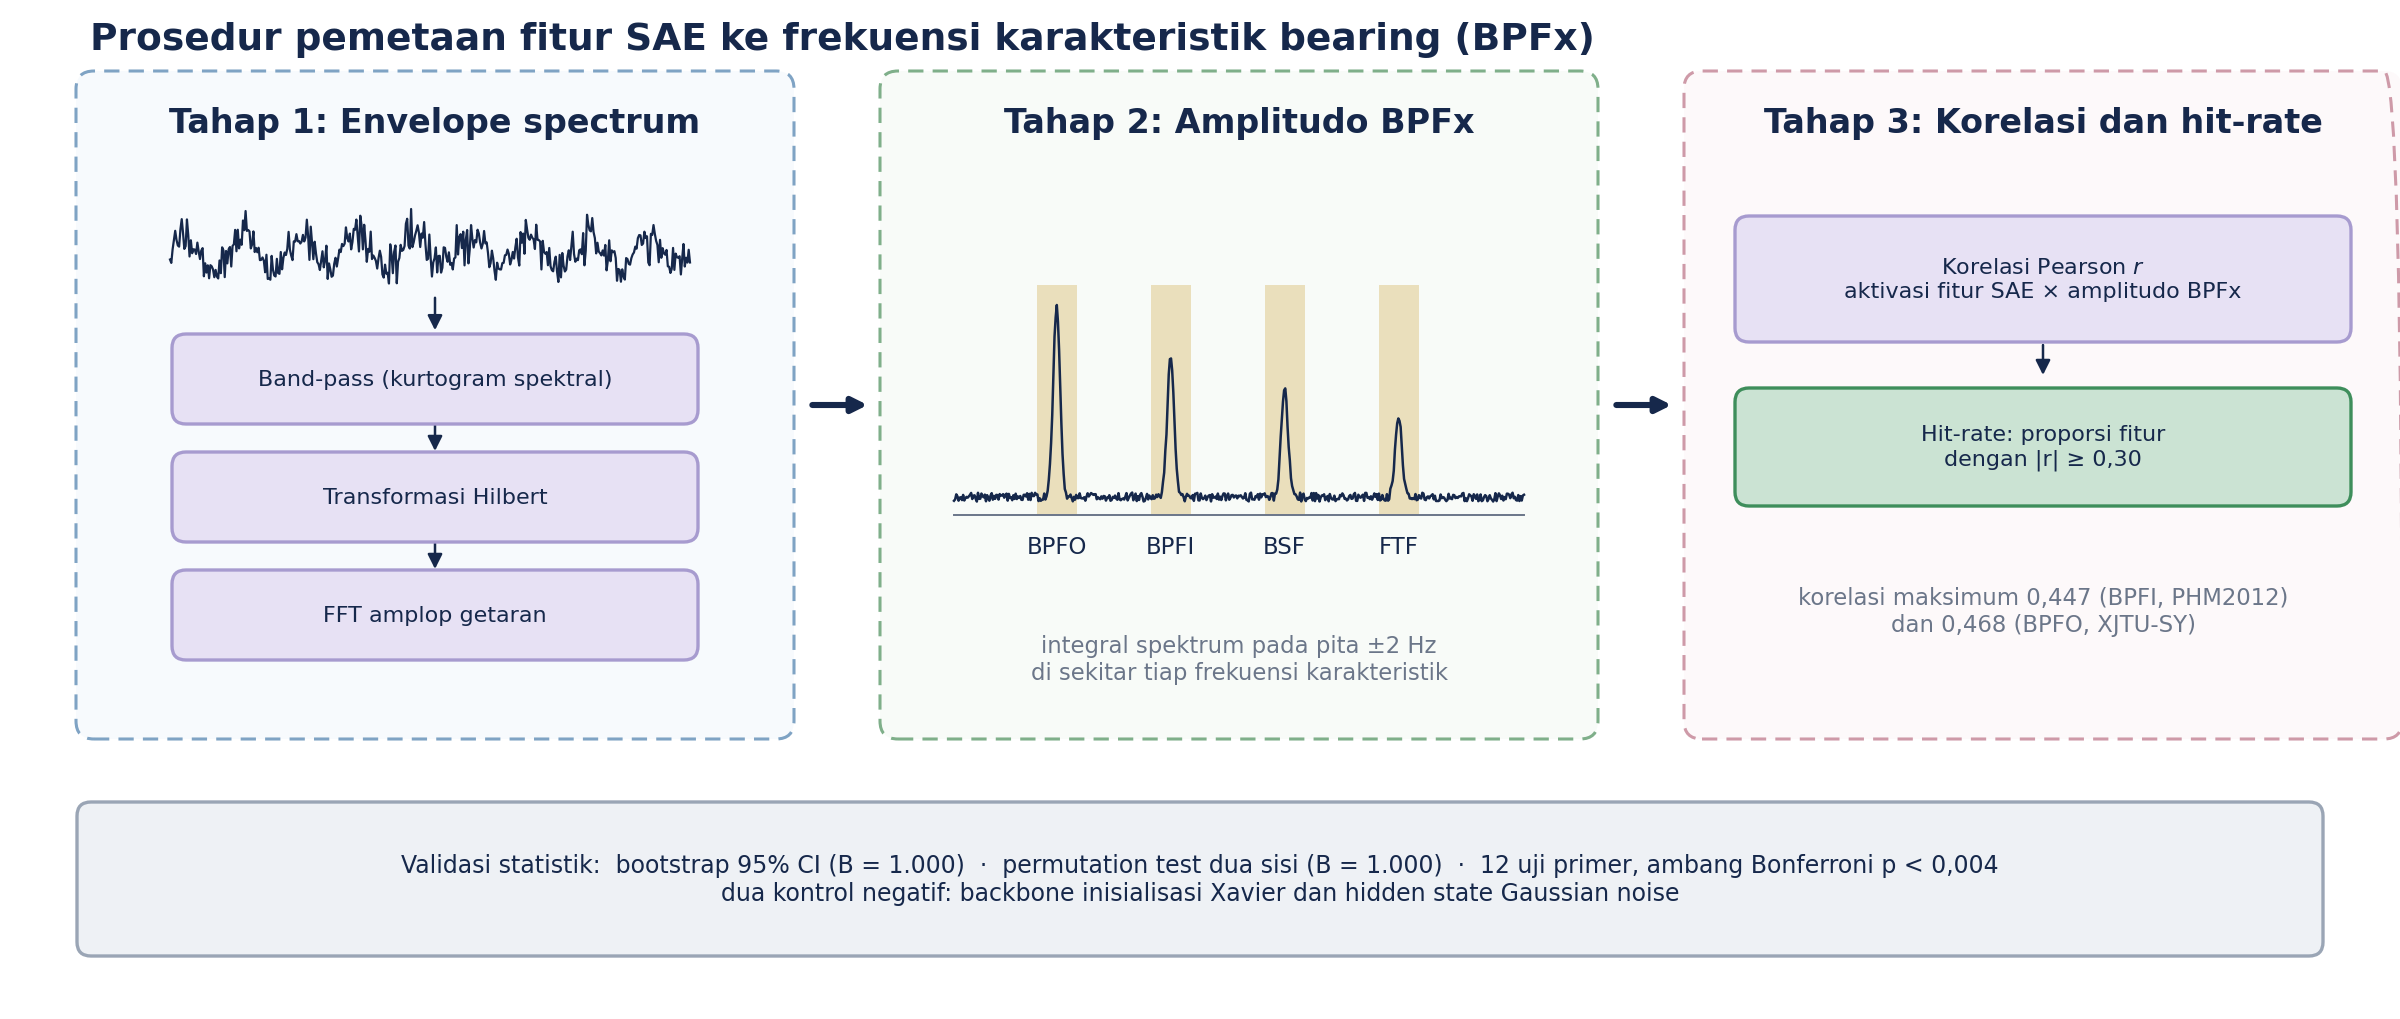
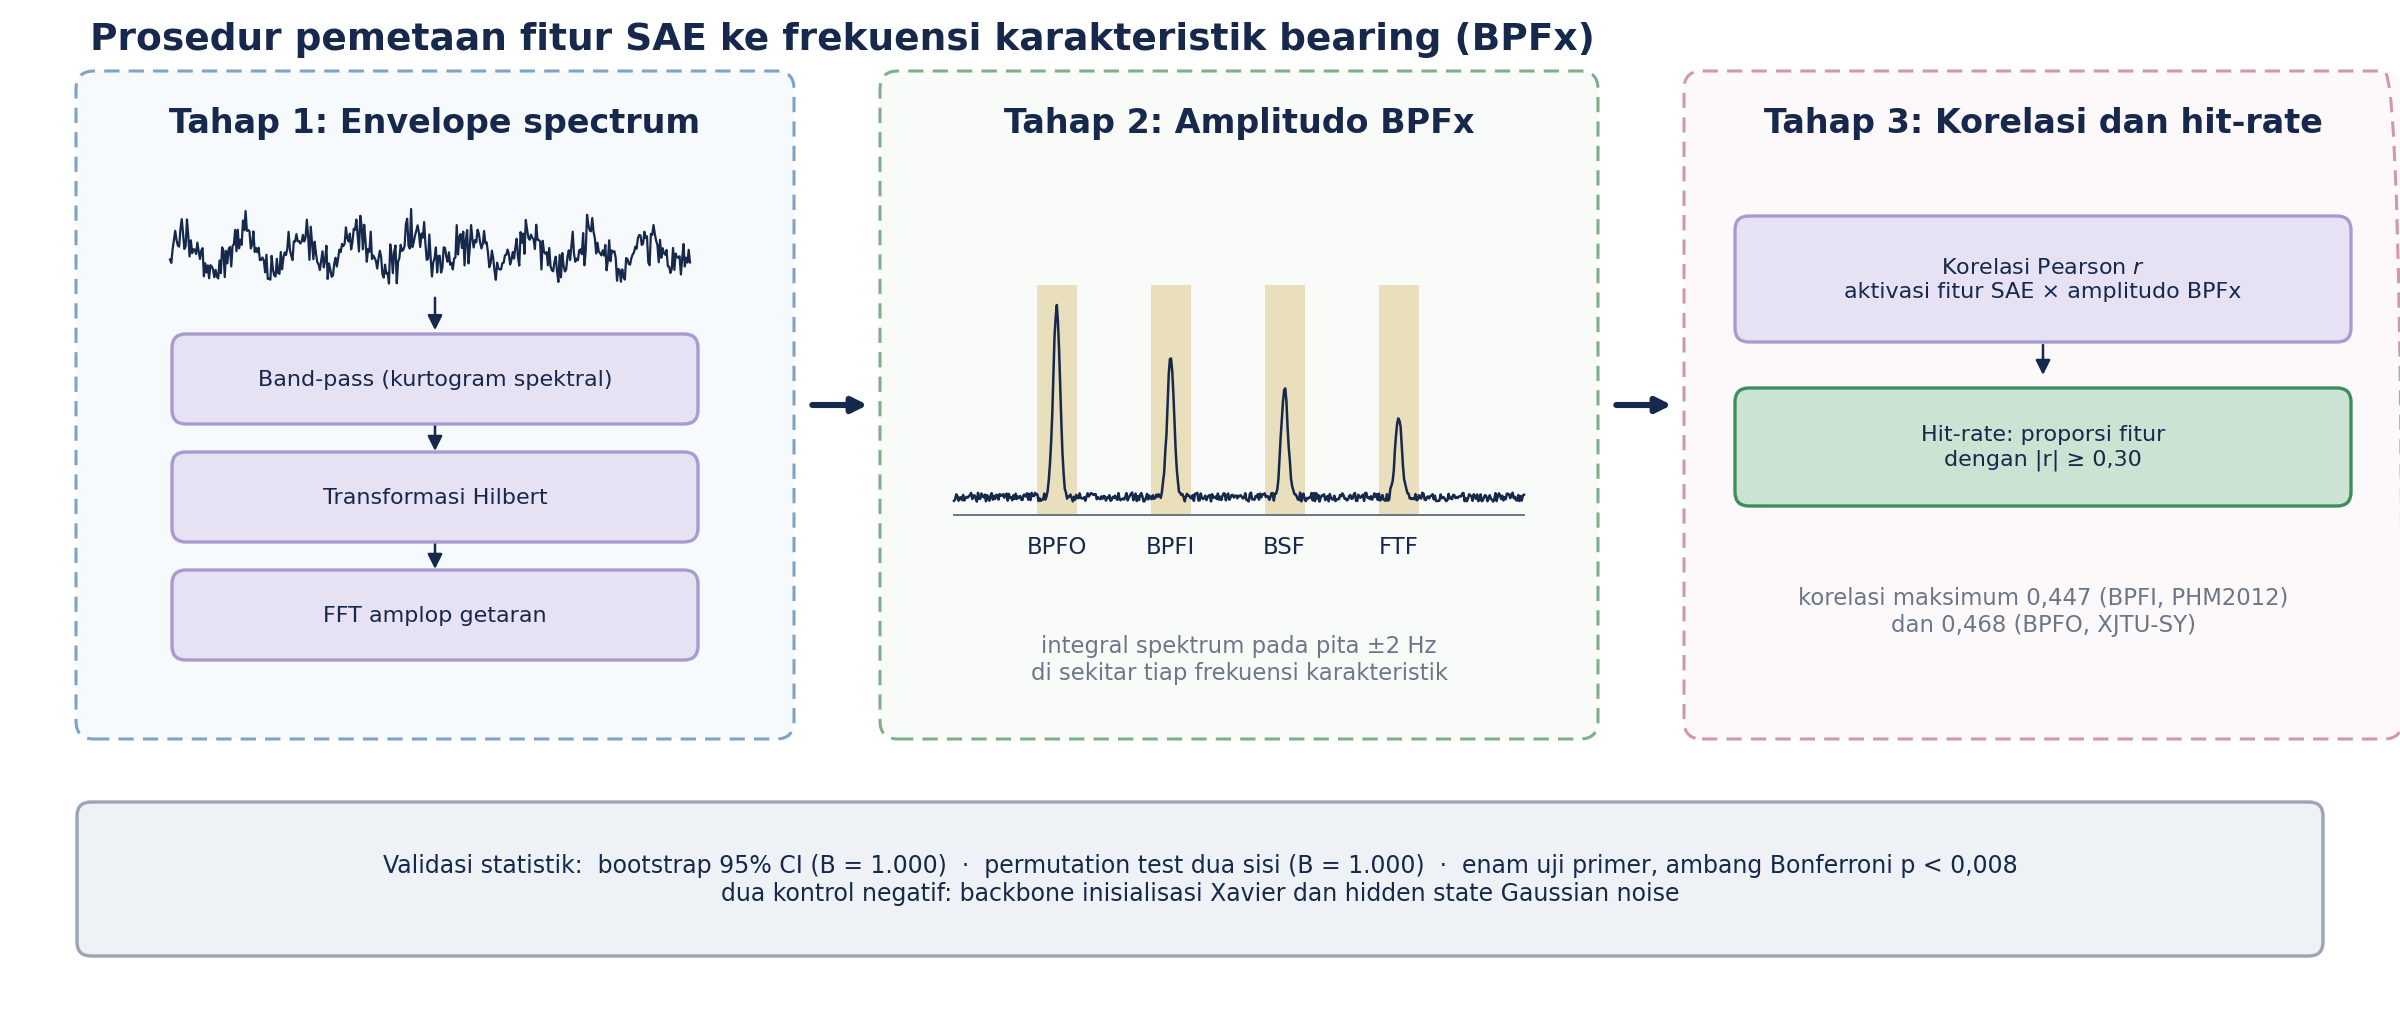
fix(presentation): sync deck to the edited V14 (enam uji primer, p < 0,008)
The V14 DOCX was edited to finish the IMS/CWRU removal the manuscript had
only done visually (Word picture-crops on Gambar III.1/V.15/V.17): CWRU
sentences and the Tabel V.6 row removed, dataset counts corrected, the
primary-test arithmetic recomputed for two datasets (enam uji primer,
Bonferroni p < 0,008), embedded media swapped for clean crops and the
stale srcRect crops cleared. Deck, diagram strip, and provenance claims
follow; 129 tests green against the edited manuscript.

Claude-Session: https://claude.ai/code/session_01VPxUBMA37K3bjY1ZnjmBgu

Changed region(s): [[0.1562, 0.8214, 0.8438, 0.8822]]

diff --git a/presentation/tests/test_provenance.py b/presentation/tests/test_provenance.py
@@ -131,8 +131,8 @@ CLAIMS: list[tuple[str, list[str]]] = [
     ("SAE 20.000 hidden state", ["20.000 hidden state"]),
     ("pita integrasi ±2 Hz", ["±2 Hz"]),
     ("ambang hit |r| ≥ 0,30", ["≥ 0,30"]),
-    ("12 uji primer, Bonferroni 0,004", ["12 uji primer"]),
-    ("ambang Bonferroni p < 0,004", ["p < 0,004"]),
+    ("enam uji primer, Bonferroni 0,008", ["enam uji primer"]),
+    ("ambang Bonferroni p < 0,008", ["p < 0,008"]),
     ("variasi magnituda 4–8 kali lipat", ["4–8 kali lipat"]),
     ("hit-rate BPFI PHM2012 2,3%", ["2,3%"]),
     ("hit-rate BSF XJTU 1,6%", ["1,6%"]),

diff --git a/presentation/tools/render_diagrams.py b/presentation/tools/render_diagrams.py
@@ -609,7 +609,7 @@ def sae_bpfx_pipeline():
 
     box(ax, 6.0, 0.70, 11.2, 0.74,
         "Validasi statistik:  bootstrap 95% CI (B = 1.000)  ·  permutation test dua sisi "
-        "(B = 1.000)  ·  12 uji primer, ambang Bonferroni p < 0,004\n"
+        "(B = 1.000)  ·  enam uji primer, ambang Bonferroni p < 0,008\n"
         "dua kontrol negatif: backbone inisialisasi Xavier dan hidden state Gaussian noise",
         kind="util", fs=8.5)
     save(fig, "sae_bpfx_pipeline")

diff --git a/presentation/README.md b/presentation/README.md
@@ -247,13 +247,17 @@ The deck follows V14's Bab-body values wherever V14 disagrees with itself:
 | Var-C 96,13% (Tabel IV.5) vs 92,0% (Gambar F.2 caption) | 96,13% |
 | WDCNN best epoch 54 (body) vs 47 (Gambar IV.6 caption) | epoch not cited |
 | "empat dataset publik" (III.2) vs "tiga dataset benchmark dan satu sumber industri" (I.8) | tiga + SKF |
-| Gambar III.1 / V.15 / V.17 artwork still shows IMS and CWRU panels; Gambar IV.8 mismatches its caption | deck uses IMS/CWRU-free crops from `make derived-assets` |
-| Subbab V still keeps CWRU in the SAE narrative (Tabel II.3 note, Gambar V.15/V.17 captions, "12 uji primer atas 4 dataset", "empat dataset publik") | deck drops CWRU from the hit-rate section per the review decision; the 12-uji / p < 0,004 arithmetic stays as V14 states it |
+| Gambar IV.8 artwork mismatches its caption | caption describes what is shown |
 
-IMS and CWRU are out of the deck's SAE/hit-rate section (guarded by
-`test_ims_and_cwru_out_of_the_sae_section`). The source artwork in
-`dissertation-docx/assets` still carries their panels, so `make derived-assets`
-crops presentation-local copies into `assets/derived/`; regenerating the
-figures in the manuscript pipeline makes those crops obsolete. The
-negative-controls chart has no PHM2012/XJTU-SY panels at all, so the deck now
+IMS and CWRU are out of the SAE/hit-rate section in BOTH the deck (guarded by
+`test_ims_and_cwru_out_of_the_sae_section`) and the V14 DOCX itself, which was
+edited in September 2026: the CWRU cross-check sentences, the Tabel V.6 CWRU
+row, and the "empat dataset" counts were removed, the primary-test arithmetic
+became enam uji primer / Bonferroni p < 0,008, and the embedded Gambar III.1 /
+V.15 / V.17 media were replaced with IMS/CWRU-free versions (V14 had been
+hiding those panels with Word picture-crops, which were cleared along with the
+swap). The source artwork in `dissertation-docx/assets` still carries the old
+panels, so `make derived-assets` crops presentation-local copies into
+`assets/derived/`; regenerating the figures upstream makes the crops obsolete.
+The negative-controls chart has no PHM2012/XJTU-SY panels at all, so the deck
 states the control results as text.
